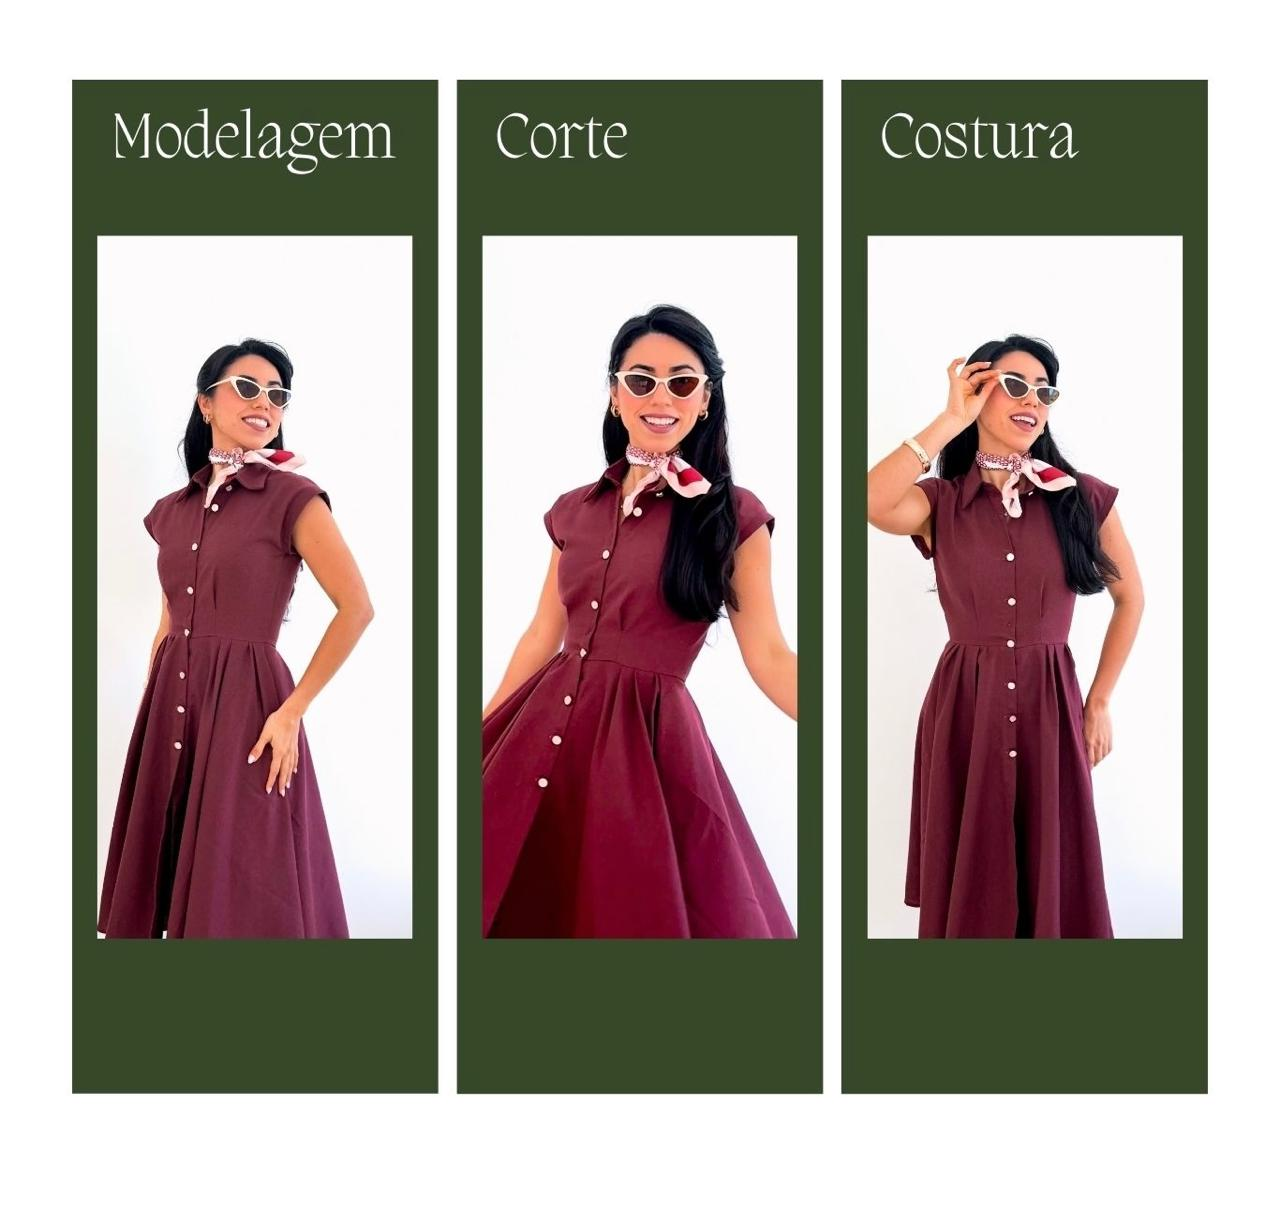
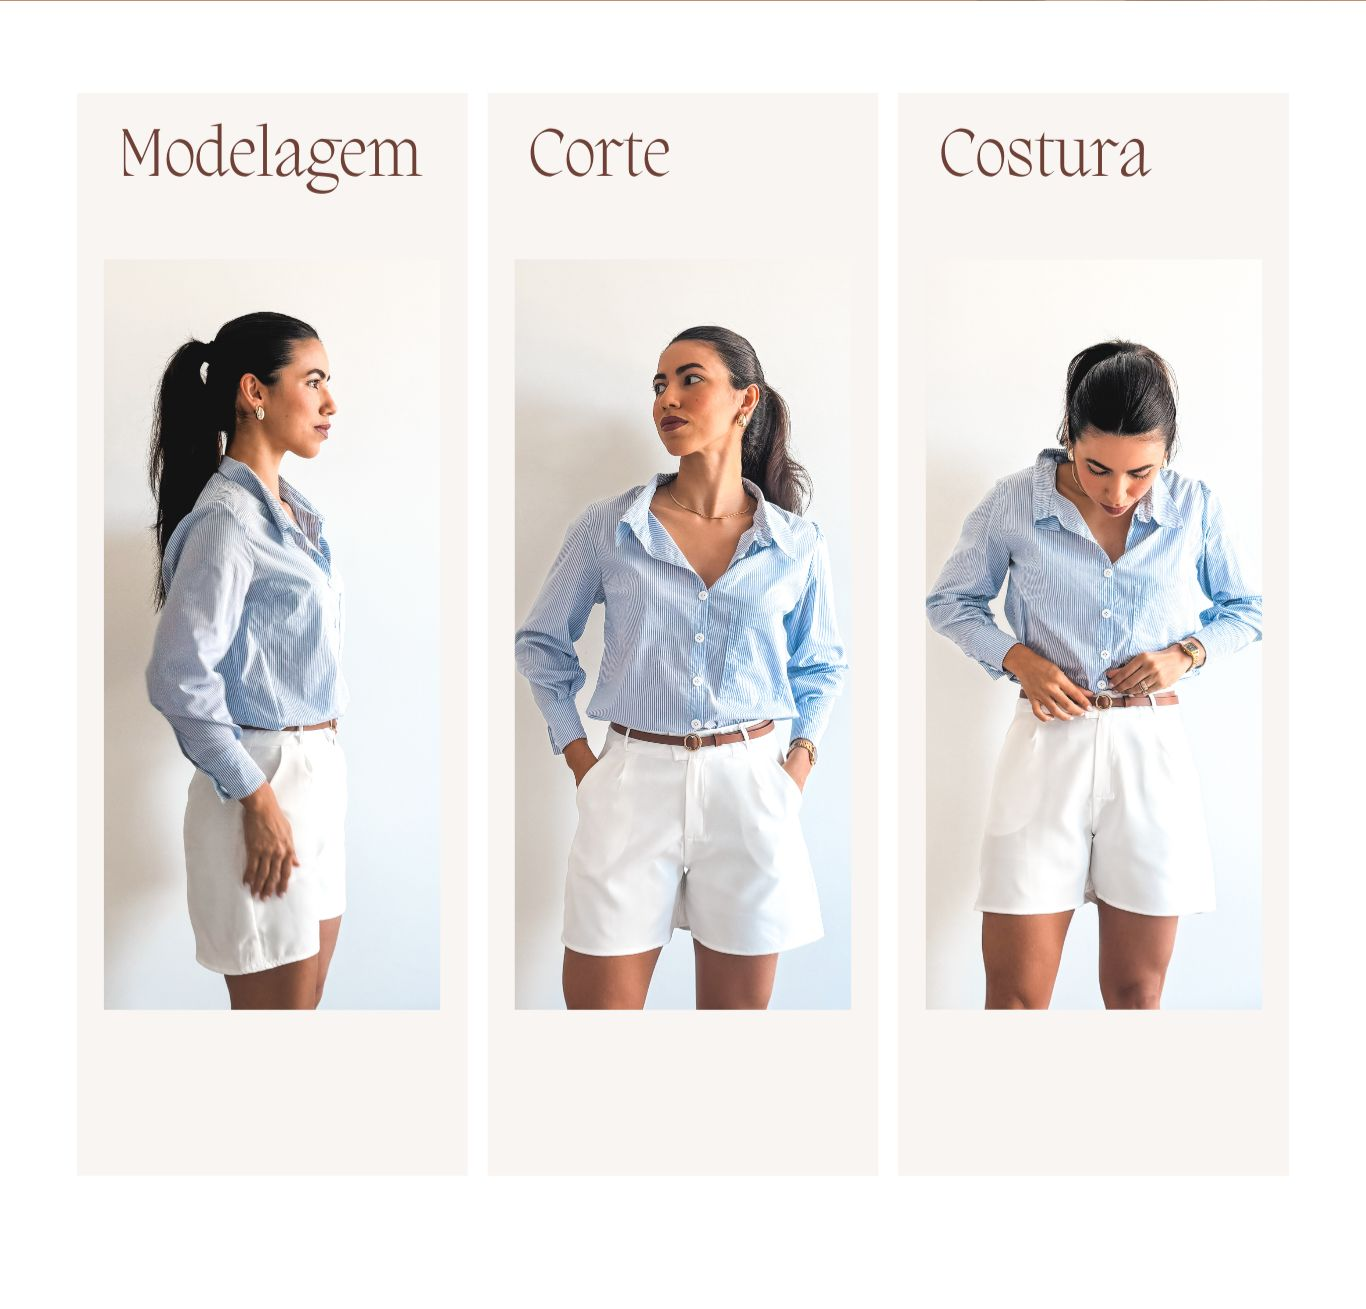
feat: short alfaiataria

diff --git a/PagesComponents/Maratona/Maratona.jsx b/PagesComponents/Maratona/Maratona.jsx
@@ -115,11 +115,11 @@ export default function MaratonaPage() {
           <S.ImageCoverFill
             src={cover01}
             priority={true}
-            alt="imagem de Grazyela Couto com Vestido Verona"
+            alt="imagem de Grazyela Couto com Short Alfaiataria"
           />
           {/* <div className="containerText">
             <span className="bold">Maratona</span>
-            <span>Vestido Verona</span> */}
+            <span>Short Alfaiataria</span> */}
             {/* <span className="lemon">Especial</span> */}
           {/* </div> */}
         </div>
@@ -138,7 +138,7 @@ export default function MaratonaPage() {
         <S.ImageCoverFill
           src={cover02}
           priority={false}
-          alt="imagem de Grazyela Couto com a Vestido Verona anunciando a data da maratona"
+          alt="imagem de Grazyela Couto com o Short Alfaiataria anunciando a data da maratona"
         />
       </S.Container01>
 
@@ -146,18 +146,18 @@ export default function MaratonaPage() {
         <S.ImageCoverFill
           src={cover03}
           priority={false}
-          alt="imagem de Grazyela Couto com a Vestido Verona anunciando a data da maratona que vai ser um sucesso"
+          alt="imagem de Grazyela Couto com o Short Alfaiataria anunciando a data da maratona que vai ser um sucesso"
         />
       </S.Container01>
 
       <S.Container01 className="third">       
         <a 
             target="_blank"
-            href={"https://pay.hotmart.com/B101360900J"} className="containerImageOnly">
+            href={"https://pay.hotmart.com/M103204490K"} className="containerImageOnly">
           
           <S.ImageCover05
             src={cover04}
-            alt="Montagem com 3 Grazyelas usando a Vestido Verona representando os processos de modelagem, corte e costura"
+            alt="Montagem com 3 Grazyelas usando o Short Alfaiataria representando os processos de modelagem, corte e costura"
           />
         </a>
       </S.Container01>
@@ -166,7 +166,7 @@ export default function MaratonaPage() {
         <div className="containerImageOnly">
           <S.ImageCover05
             src={cover05}
-            alt="Tres imagens da Grazyela Couto usando a Vestido Verona"
+            alt="Tres imagens da Grazyela Couto usando o Short Alfaiataria"
           />
         </div>
       </S.Container01>
@@ -186,19 +186,19 @@ export default function MaratonaPage() {
       <S.Container01 className="third">
         <a 
             target="_blank"
-            href={"https://pay.hotmart.com/B101360900J"} className="containerImageOnly">
+            href={"https://pay.hotmart.com/M103204490K"} className="containerImageOnly">
           
           <S.ImageCover05 src={cover08} alt="Clique aqui!" />
         </a>
       </S.Container01>
-       <S.Container01 className="third">
+       {/* <S.Container01 className="third">
         <div className="containerImageOnly">
           <S.ImageCover05
             src={cover10}
-            alt="Inspiração para o Vestido Verona"
+            alt="Inspiração para o Short Alfaiataria"
           />
         </div>
-      </S.Container01>
+      </S.Container01> */}
       <S.Container01 className="third">
         <div className="containerImageOnly">
           <S.ImageCover05

diff --git a/pages/maratona.jsx b/pages/maratona.jsx
@@ -4,10 +4,10 @@ export default function Home(props) {
   return <MaratonaPage />;
 }
 export async function getStaticProps({ resolvedUrl }) {
-  const title = `${process.env.NEXT_PUBLIC_REACT_APP_GENERAL_TITLE} - Maratona Vestido Verona`;
+  const title = `${process.env.NEXT_PUBLIC_REACT_APP_GENERAL_TITLE} - Maratona Short Alfaiataria`;
   const metaKeywords = process.env.NEXT_PUBLIC_REACT_APP_GENERAL_KEYWORDS;
   const metaDescription =
-    "Venha aprender a modelar e costurar essa linda Vestido Verona!";
+    "Venha aprender a modelar e costurar esse lindo Short Alfaiataria!";
 
   return {
     props: {
